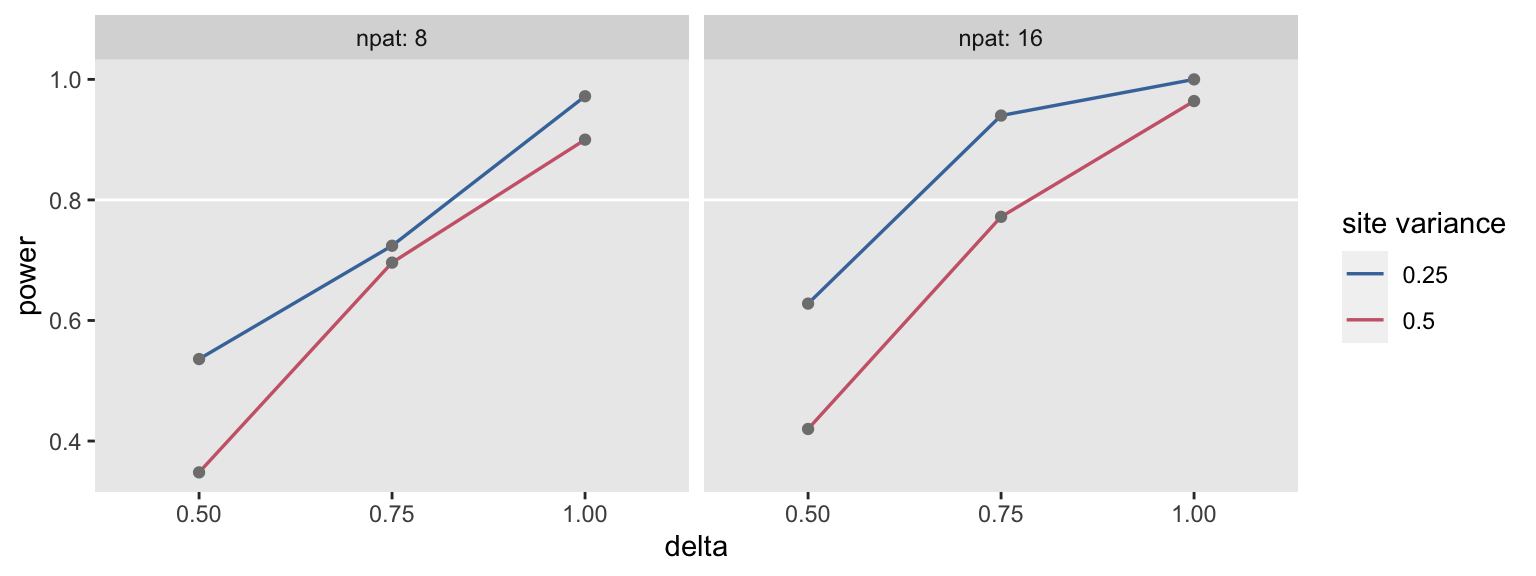
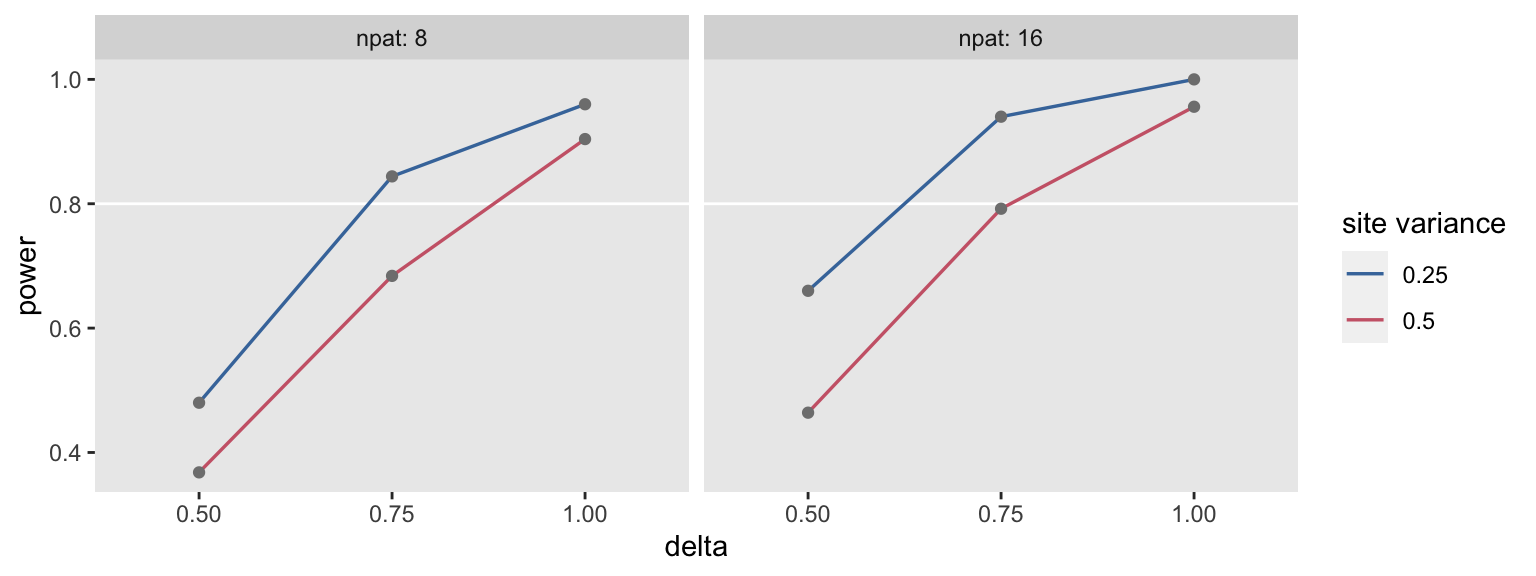
Posting framework

diff --git a/content/post/2021-03-30-some-cases-where-imputing-missing-data-matters/index.en.html b/content/post/2021-03-30-some-cases-where-imputing-missing-data-matters/index.en.html
@@ -84,47 +84,36 @@ ddobs</code></pre>
 <pre class="r"><code>ddobs[!is.na(y), .(avg = mean(y)), keyby = a][ , avg - shift(avg)][2]    </code></pre>
 <pre><code>## [1] 2.5</code></pre>
 <p>If this is the case more generally for data sets generated using this mechanism, it may turn out we don’t need to worry at all about the missing data; even though we know it is MAR, we might be able to treat it as MCAR, and just use the complete observations only without any adjustment or imputation.</p>
-<p>Simulating 1000 data sets using steps outlined above provides insight into the nature of the bias. The plot shows the estimate for each data set, and it is clear that the estimates of the average outcome in each arm are biased when we do not take into consideration the missingness. However, the bias is removed when we are considering the treatment effect, which is our primary interest. In this (perhaps overly) simplistic scenario, there is no price to pay when ignoring the missing data.</p>
+<p>Simulating 2500 data sets using steps outlined above provides insight into the nature of the bias. The plot shows the estimate for each data set, and it is clear that the estimates of the average outcome in each arm are biased when we do not take into consideration the missingness. However, the bias is removed when we are considering the treatment effect, which is our primary interest. In this (perhaps overly) simplistic scenario, there is no price to pay when ignoring the missing data.</p>
 <p><img src="img/comp_obs.png" /></p>
 </div>
-<div id="next-section" class="section level3">
-<h3>Next section</h3>
+<div id="scenario-with-repeated-measurements" class="section level3">
+<h3>Scenario with repeated measurements</h3>
+<p>The original scenario that motivated this post with an added missing data mechanism is depicted in the next DAG. Those with higher scores in the first period are more likely to have missing values in the second time period, perhaps because they have improved sufficiently and no longer feel like participating in the study.</p>
 <p><img src="img/MAR_collide.png" style="width:40.0%" /></p>
-<pre class="r"><code>d1 &lt;- defData(varname = &quot;u&quot;, formula=0, variance = 1, dist = &quot;normal&quot;)
+<p>The DAG is implemented with these definitions:</p>
+<pre class="r"><code>def1 &lt;- defData(varname = &quot;u&quot;, formula=0, variance = 1, dist = &quot;normal&quot;)
 
-d2 &lt;- defDataAdd(varname = &quot;y1&quot;, formula = &quot;5 + a*2 + u*2&quot;, variance = 2)
-d2 &lt;- defDataAdd(d2, &quot;y2&quot;, formula = &quot;6 + a*3 + u*2&quot;, variance = 2)
+def2 &lt;- defDataAdd(varname = &quot;y1&quot;, formula = &quot;5 + 2*a + 2*u&quot;, variance = 2)
+def2 &lt;- defDataAdd(def2, &quot;y2&quot;, formula = &quot;6 + 3*a + 2*u&quot;, variance = 2)
 
-dm &lt;- defMiss(varname = &quot;y2&quot;, formula = &quot;-3.5 + .4*y1&quot;, logit.link = TRUE)
+defm &lt;- defMiss(varname = &quot;y2&quot;, formula = &quot;-3.5 + 0.4*y1&quot;, logit.link = TRUE)</code></pre>
+<p>And we can go ahead a generate a complete data set, a missing data matrix, and an observed data set with missing values.</p>
+<pre class="r"><code>set.seed(67124)
 
-set.seed(67124)
-# set.seed(48172)
-
-dd &lt;- genData(500, d1)
+dd &lt;- genData(500, def1)
 dd &lt;- trtAssign(dd, grpName = &quot;a&quot;)
-dd &lt;- addColumns(d2, dd)
+dd &lt;- addColumns(def2, dd)
 
-dmiss &lt;- genMiss(dd, dm, id = &quot;id&quot;)
-dobs &lt;- genObs(dd, dmiss, id = &quot;id&quot;)
-
-dd[, .(.N, mean(y2)), keyby = .(a)]</code></pre>
-<pre><code>##    a   N V2
-## 1: 0 250  6
-## 2: 1 250  9</code></pre>
-<pre class="r"><code>dobs[!is.na(y2), .(avg = mean(y2)), keyby = a]</code></pre>
-<pre><code>##    a avg
-## 1: 0 5.9
-## 2: 1 8.4</code></pre>
+dmiss &lt;- genMiss(dd, defm, id = &quot;id&quot;)
+dobs &lt;- genObs(dd, dmiss, id = &quot;id&quot;)</code></pre>
+<p>The estimate of the effect size using the difference in averages from the complete data set is 2.9:</p>
 <pre class="r"><code>dd[, .(avg = mean(y2)), keyby = a][ , avg - shift(avg)][2]    </code></pre>
 <pre><code>## [1] 2.9</code></pre>
-<pre class="r"><code>dobs[!is.na(y2), .(avg = mean(y2)), keyby = a][ , avg - shift(avg)][2]    </code></pre>
+<p>Unlike the simplified case, the estimate of the effect size using the difference in averages is attenuated, and is possibly biased, coming in slightly lower at 2.6:</p>
+<pre class="r"><code>dobs[!is.na(y2), .(avg = mean(y2)), keyby = a][ , avg - shift(avg)][2]</code></pre>
 <pre><code>## [1] 2.6</code></pre>
-<pre class="r"><code>tidy(lm(y2 ~ a, data = dd))</code></pre>
-<pre><code>## # A tibble: 2 x 5
-##   term        estimate std.error statistic   p.value
-##   &lt;chr&gt;          &lt;dbl&gt;     &lt;dbl&gt;     &lt;dbl&gt;     &lt;dbl&gt;
-## 1 (Intercept)     6.02     0.152      39.5 1.09e-155
-## 2 a               2.94     0.215      13.7 2.28e- 36</code></pre>
+<p>If we suspect that the bias is due to the fact that first period measurement is a predictor of missingness in the second period, we might be tempted to use a regression model that adjusts for the first period measurement to estimate the treatment effect. However, controlling for <span class="math inline">\(Y_1\)</span>, which is a collider, only induces additional bias, and indeed, the estimate is even further away from the truth.</p>
 <pre class="r"><code>tidy(lm(y2 ~ y1 + a, data = dobs))</code></pre>
 <pre><code>## # A tibble: 3 x 5
 ##   term        estimate std.error statistic  p.value
@@ -132,6 +121,7 @@ dd[, .(.N, mean(y2)), keyby = .(a)]</code></pre>
 ## 1 (Intercept)    2.96     0.228      13.0  6.57e-32
 ## 2 y1             0.631    0.0413     15.3  5.50e-41
 ## 3 a              1.38     0.205       6.74 6.19e-11</code></pre>
+<p>So, in this case, where missingness is a function of a variable that</p>
 <pre class="r"><code>library(mice)
 imp &lt;- mice(dobs[,-&quot;id&quot;], m=20, maxit=5, print=FALSE)
 
@@ -140,4 +130,53 @@ summary(pool(fit))</code></pre>
 <pre><code>##          term estimate std.error statistic  df p.value
 ## 1 (Intercept)      6.1      0.16        39 370       0
 ## 2           a      2.8      0.23        12 263       0</code></pre>
+<p><img src="img/full.png" style="width:70.0%" /></p>
+<p><img src="img/impute.png" style="width:40.0%" /></p>
+</div>
+<div id="addendum" class="section level2">
+<h2>Addendum</h2>
+<p>In case you’d like to play around with other scenarios, I’m including the code that will allow you to repeatedly sample data sets:</p>
+<pre class="r"><code>#--- Data definitions
+
+d1 &lt;- defData(varname = &quot;u&quot;, formula=0, variance = 1, dist = &quot;normal&quot;)
+
+d2 &lt;- defDataAdd(varname = &quot;y1&quot;, formula = &quot;5 + a*2 + u*2&quot;, variance = 2)
+d2 &lt;- defDataAdd(d2, &quot;y2&quot;, formula = &quot;6 + a*3 + u*2&quot;, variance = 2)
+
+dm &lt;- defMiss(varname = &quot;y2&quot;, formula = &quot;-3.5 + 0.4*y1&quot;, logit.link = TRUE)
+
+#--- 
+
+s_generate &lt;- function(n) {
+  
+  dd &lt;- genData(n, d1)
+  dd &lt;- trtAssign(dd, grpName = &quot;a&quot;)
+  dd &lt;- addColumns(d2, dd)
+  
+  dmiss &lt;- genMiss(dd, dm, id = &quot;id&quot;)
+  dobs &lt;- genObs(dd, dmiss, id = &quot;id&quot;)
+  
+  return(list(dd, dobs))
+  
+}
+
+s_replicate &lt;- function(n) {
+  
+  dsets &lt;- s_generate(n)
+  est.complete &lt;- coef(lm(y2 ~ a, data = dsets[[1]]))[&quot;a&quot;]
+  est.obs &lt;- coef(lm(y2 ~ y1 + a, data = dsets[[2]]))[&quot;a&quot;]
+  
+  imp &lt;- mice(dsets[[2]][,-&quot;id&quot;], m=20, maxit=5, print=FALSE)
+  
+  fit &lt;- with(imp, lm(y2 ~ a))
+  pooled.ests &lt;- summary(pool(fit))
+  est.impute &lt;- pooled.ests$estimate[2]
+  
+  diff.complete &lt;- dsets[[1]][, .(avg = mean(y2)), keyby = a][ , avg - shift(avg)][2]    
+  diff.obs&lt;- dsets[[2]][!is.na(y2), .(avg = mean(y2)), keyby = a][ , avg - shift(avg)][2] 
+  
+  return(data.table(est.complete, diff.complete, est.obs, diff.obs, est.impute))
+}
+
+results &lt;- rbindlist(mclapply(1:2500, function(x) s_replicate(300), mc.cores = 4))</code></pre>
 </div>

diff --git a/content/post/2021-03-16-framework-for-power-analysis-using-simulation/index.en.html b/content/post/2021-03-16-framework-for-power-analysis-using-simulation/index.en.html
@@ -12,7 +12,6 @@ image: ''
 output:
   blogdown::html_page:
     anchor_sections: no
-draft: TRUE
 ---
 
 <script src="{{< blogdown/postref >}}index.en_files/header-attrs/header-attrs.js"></script>
@@ -22,7 +21,7 @@ draft: TRUE
 <p>What I have here is another attempt to document and organize a process that I find myself doing quite often - repeated data generation and model fitting. Whether I am conducting a power analysis using simulation or exploring operating characteristics of different models, I take a pretty similar approach. I refer to this structure when I am starting a new project, so I thought it would be nice to have it easily accessible online - and that way others might be able to refer to it as well.</p>
 <div id="the-framework" class="section level3">
 <h3>The framework</h3>
-<p>I will provide a simple application below, but first I am just showing the general structure. The basic idea is that we want to generate data under a variety of assumptions - for example, a power analysis will assume different sample sizes, effects, and/or levels of variation - and for <em>each set of assumptions</em>, we want to generate a large number of replications to mimic repeated sampling from a population. The key elements of the process include (1) <em>defining</em> the data, (2) <em>generating</em> a data set, (3) <em>fitting a model</em> to the data, and (4) <em>providing summary statistics</em>.</p>
+<p>I will provide a simple application below, but first I’ll show the general structure. The basic idea is that we want to generate data under a variety of assumptions - for example, a power analysis will assume different sample sizes, effects, and/or levels of variation - and for <em>each set of assumptions</em>, we want to generate a large number of replications to mimic repeated sampling from a population. The key elements of the process include (1) <em>defining</em> the data, (2) <em>generating</em> a data set, (3) <em>fitting a model</em> to the data, and (4) <em>providing summary statistics</em>.</p>
 <p>If you have familiarity with <code>simstudy</code>, I’d say the code is pretty self-explanatory. In the function <code>s_generate</code>, there is a call to base R function <code>list2env</code>, which makes all elements of a list available as variables in the function’s environment. The replication process is managed by the <code>mclapply</code> function from the <code>parallel</code> package. (Alternative approaches include using function <code>lapply</code> in base R or using a <em>for</em> loop.)</p>
 <pre class="r"><code>s_define &lt;- function() {
   
@@ -73,7 +72,7 @@ s_replicate &lt;- function(argsvec, nsim) {
 }</code></pre>
 <div id="specifying-scenarios" class="section level4">
 <h4>Specifying scenarios</h4>
-<p>The possible values of each data generating parameter are specified as a vector. Different data generating parameters are specified in different vectors. The function <code>scenario_list</code> creates all possible combinations of the values of the various parameters, so that there will be <span class="math inline">\(n_1 \times n_2 \times n_3 \times ...\)</span> scenarios, where <span class="math inline">\(n_i\)</span> is the number of possible values for parameter <span class="math inline">\(i\)</span>. Examples of parameters might be sample size, effect size, variance, etc. - or any value that can be used in the data generation process.</p>
+<p>The possible values of each data generating parameter are specified as a vector. The function <code>scenario_list</code> creates all possible combinations of the values of the various parameters, so that there will be <span class="math inline">\(n_1 \times n_2 \times n_3 \times ...\)</span> scenarios, where <span class="math inline">\(n_i\)</span> is the number of possible values for parameter <span class="math inline">\(i\)</span>. Examples of parameters might be sample size, effect size, variance, etc, really any value that can be used in the data generation process.</p>
 <p>The process of data generation and model fitting is executed for each combination of <span class="math inline">\(n_1 \times n_2 \times n_3 \times ...\)</span> scenarios. This can be done locally using function <code>lapply</code> or using a high performance computing environment using something like <code>Slurm_lapply</code> in the <code>slurmR</code> package. (I won’t provide an example of that here - let me know if you’d like to see that.)</p>
 <pre class="r"><code>#---- specify varying power-related parameters ---#
 
@@ -185,18 +184,18 @@ summary_stats &lt;- rbindlist(lapply(scenarios, function(a) s_replicate(a, nsim 
 <p>The overall results (in this case, the power estimate) can be reported for each scenario.</p>
 <pre class="r"><code>summary_stats</code></pre>
 <pre><code>##     delta svar npat power
-##  1:  0.50 0.25    8 0.536
-##  2:  0.75 0.25    8 0.724
-##  3:  1.00 0.25    8 0.972
-##  4:  0.50 0.50    8 0.348
-##  5:  0.75 0.50    8 0.696
-##  6:  1.00 0.50    8 0.900
-##  7:  0.50 0.25   16 0.628
+##  1:  0.50 0.25    8 0.480
+##  2:  0.75 0.25    8 0.844
+##  3:  1.00 0.25    8 0.960
+##  4:  0.50 0.50    8 0.368
+##  5:  0.75 0.50    8 0.684
+##  6:  1.00 0.50    8 0.904
+##  7:  0.50 0.25   16 0.660
 ##  8:  0.75 0.25   16 0.940
 ##  9:  1.00 0.25   16 1.000
-## 10:  0.50 0.50   16 0.420
-## 11:  0.75 0.50   16 0.772
-## 12:  1.00 0.50   16 0.964</code></pre>
+## 10:  0.50 0.50   16 0.464
+## 11:  0.75 0.50   16 0.792
+## 12:  1.00 0.50   16 0.956</code></pre>
 <p>We can also plot the results easily to get a clearer picture. Higher between-site variation clearly reduces power, as do smaller effect sizes and smaller sizes. None of this is surprising, but is always nice to see things working out as expected:</p>
 <p><img src="{{< blogdown/postref >}}index.en_files/figure-html/powerplot-1.png" width="768" /></p>
 </div>
